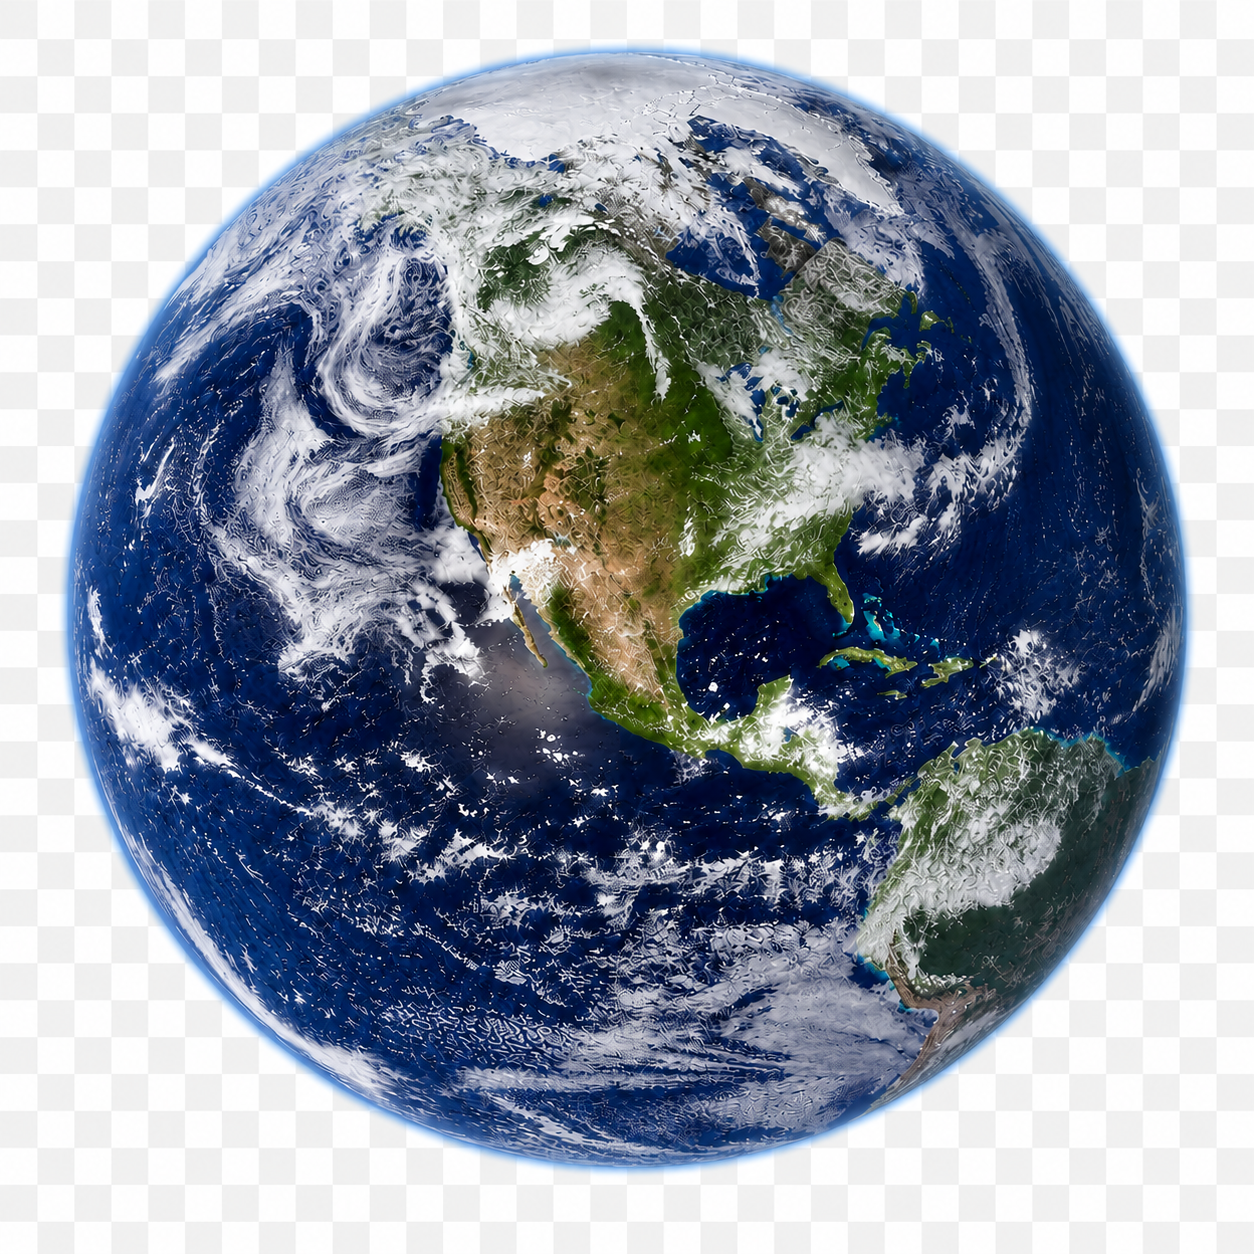
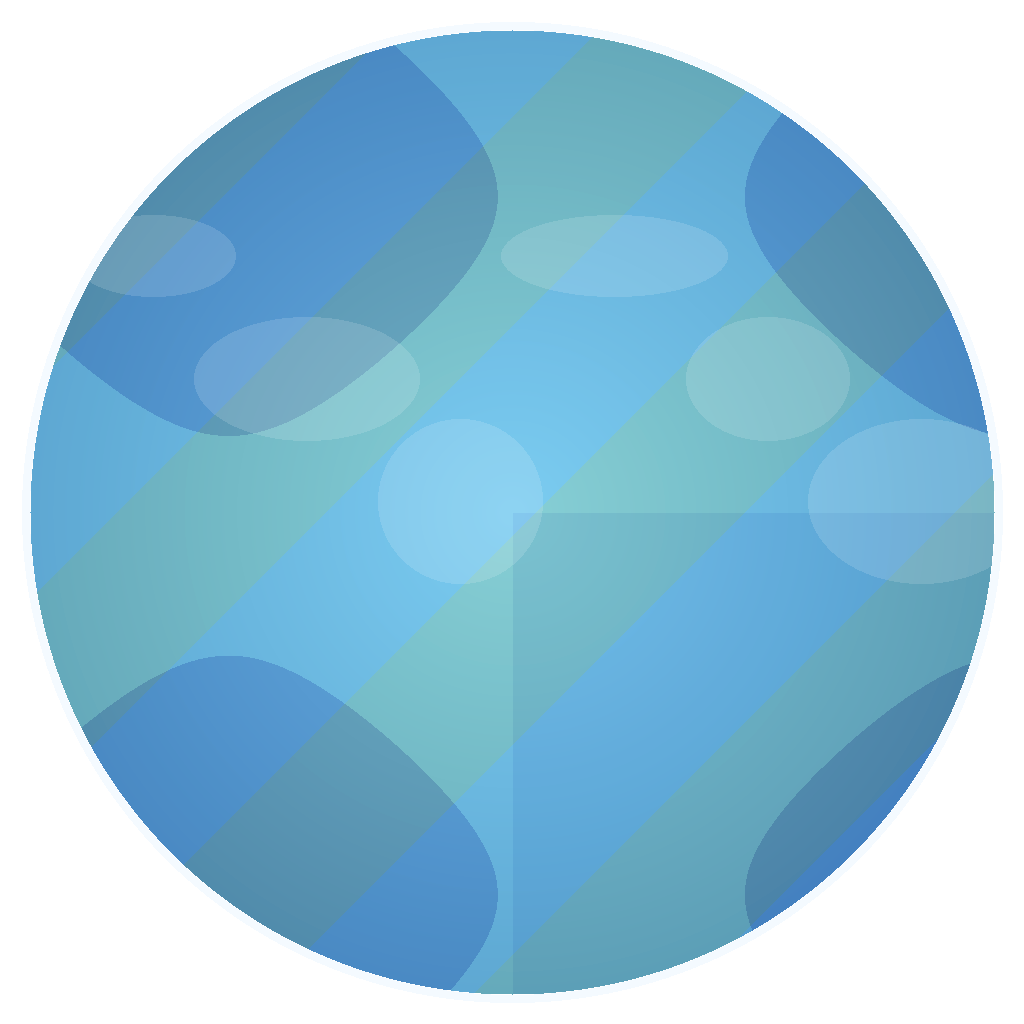
v8

diff --git a/script.js b/script.js
@@ -110,21 +110,21 @@ function easeOutCubic(t) { return 1 - Math.pow(1 - t, 3); }
 function drawEarth(center, now) {
   if (!earthImage.complete) return;
 
-  const earthSize = Math.min(W, H) * 0.36;
-  const bobY = Math.sin(now * 0.0007) * 5;
-  const pulse = 1 + Math.sin(now * 0.0011) * 0.006;
+  const earthSize = Math.min(W, H) * 0.48;
+  const bobY = Math.sin(now * 0.0007) * 4;
+  const pulse = 1 + Math.sin(now * 0.0011) * 0.004;
 
   ctx.save();
   ctx.translate(center.x, center.y + bobY);
   ctx.scale(pulse, pulse);
 
-  const glow = ctx.createRadialGradient(0, 0, earthSize * 0.08, 0, 0, earthSize * 0.9);
-  glow.addColorStop(0, 'rgba(140, 240, 255, 0.3)');
-  glow.addColorStop(0.5, 'rgba(90, 150, 255, 0.16)');
+  const glow = ctx.createRadialGradient(0, 0, earthSize * 0.1, 0, 0, earthSize * 0.95);
+  glow.addColorStop(0, 'rgba(150, 245, 255, 0.32)');
+  glow.addColorStop(0.5, 'rgba(95, 150, 255, 0.16)');
   glow.addColorStop(1, 'rgba(0, 0, 0, 0)');
   ctx.fillStyle = glow;
   ctx.beginPath();
-  ctx.arc(0, 0, earthSize * 0.9, 0, Math.PI * 2);
+  ctx.arc(0, 0, earthSize * 0.95, 0, Math.PI * 2);
   ctx.fill();
 
   ctx.drawImage(earthImage, -earthSize / 2, -earthSize / 2, earthSize, earthSize);

diff --git a/generate_earth_png.py b/generate_earth_png.py
@@ -1,0 +1,80 @@
+from PIL import Image, ImageDraw, ImageFilter, ImageOps
+import math
+
+out_path = 'assets/earth-realistic.png'
+size = 1024
+img = Image.new('RGBA', (size, size), (0, 0, 0, 0))
+draw = ImageDraw.Draw(img)
+
+# Base sphere
+center = (size // 2, size // 2)
+radius = size // 2 - 30
+
+# Soft blue/purple glow behind the sphere
+for r in range(int(radius * 1.05), int(radius * 1.35), 12):
+    glow = Image.new('RGBA', (size, size), (0, 0, 0, 0))
+    gdraw = ImageDraw.Draw(glow)
+    gdraw.ellipse((center[0]-r, center[1]-r, center[0]+r, center[1]+r), fill=(95, 170, 255, 20))
+    img = Image.alpha_composite(img, glow)
+
+# Base gradient sphere
+base = Image.new('RGBA', (size, size), (0, 0, 0, 0))
+base_draw = ImageDraw.Draw(base)
+base_draw.ellipse((center[0]-radius, center[1]-radius, center[0]+radius, center[1]+radius), fill=(0, 0, 0, 0))
+
+# Create a subtle gradient for the sphere
+for y in range(size):
+    for x in range(size):
+        dx = x - center[0]
+        dy = y - center[1]
+        if dx*dx + dy*dy <= radius*radius:
+            # Normalized position
+            nx = dx / radius
+            ny = dy / radius
+            dist = math.sqrt(nx*nx + ny*ny)
+            # Base color with light from upper-left
+            r = int(20 + 90 * (0.65 + 0.35 * max(0, 1 - dist)))
+            g = int(70 + 105 * (0.65 + 0.35 * max(0, 1 - dist)))
+            b = int(140 + 70 * (0.6 + 0.4 * max(0, 1 - dist)))
+            # Add a slight blue tint and ocean/land variation
+            if 0.55 + 0.2 * math.sin((x + y) * 0.015) > 0.55:
+                r = int(r * 0.95)
+                g = int(g * 1.0)
+                b = int(b * 1.08)
+            else:
+                r = int(r * 1.05)
+                g = int(g * 1.02)
+                b = int(b * 0.95)
+            # Add land masses
+            land = (math.sin((x - center[0]) * 0.008 + 0.7) + math.cos((y - center[1]) * 0.009 - 0.3) + 1.1)
+            if land > 0.65:
+                r = int(r + 20)
+                g = int(g + 30)
+                b = int(b + 15)
+            # Shadow on the right/lower side
+            if dx > 0 and dy > 0:
+                r = int(r * 0.92)
+                g = int(g * 0.94)
+                b = int(b * 0.98)
+            base.putpixel((x, y), (r, g, b, 255))
+
+# Add subtle cloud bands
+clouds = Image.new('RGBA', (size, size), (0, 0, 0, 0))
+cdraw = ImageDraw.Draw(clouds)
+for i in range(6):
+    cx = size * (0.15 + 0.15 * i)
+    cy = size * (0.25 + 0.12 * (i % 3))
+    radius_x = size * (0.08 + 0.03 * (i % 2))
+    radius_y = size * (0.04 + 0.02 * (i % 3))
+    cdraw.ellipse((cx-radius_x, cy-radius_y, cx+radius_x, cy+radius_y), fill=(255, 255, 255, 35))
+
+img = Image.alpha_composite(base, clouds)
+
+# Add a thin atmosphere highlight
+atmos = Image.new('RGBA', (size, size), (0, 0, 0, 0))
+atdraw = ImageDraw.Draw(atmos)
+atdraw.ellipse((center[0]-radius-8, center[1]-radius-8, center[0]+radius+8, center[1]+radius+8), outline=(180, 220, 255, 35), width=8)
+img = Image.alpha_composite(img, atmos)
+
+img.save(out_path)
+print('saved', out_path)